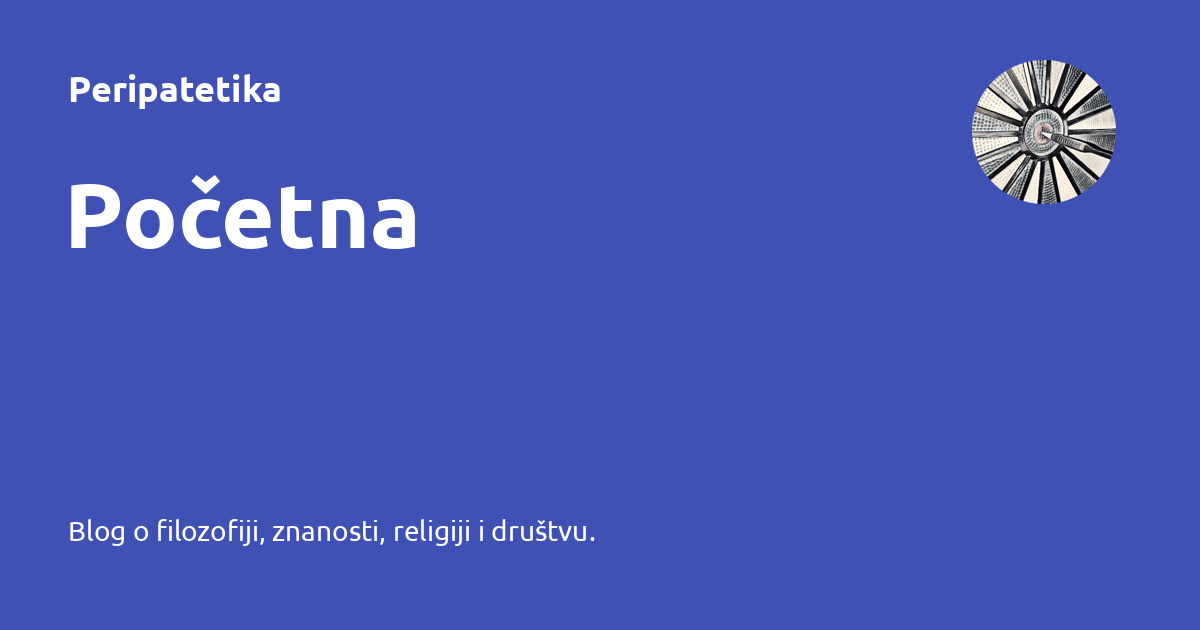
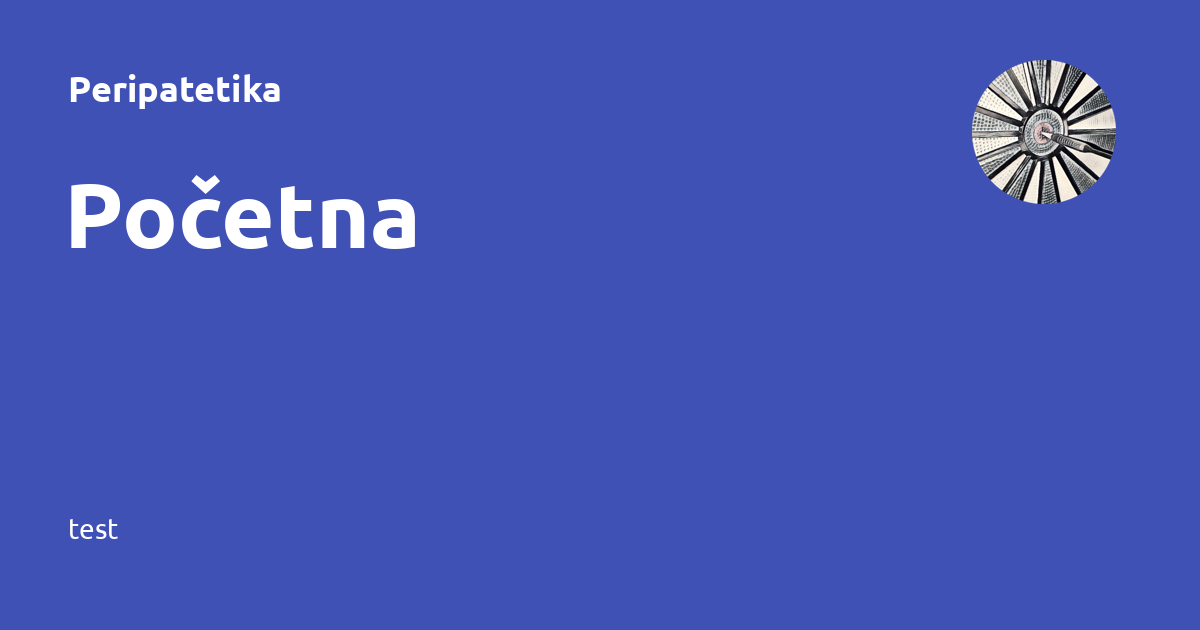
Deployed bcdc57d with MkDocs version: 1.6.1

Changed region(s): [[0.0617, 0.8143, 0.4933, 0.8746]]

diff --git a/index.html b/index.html
@@ -6,7 +6,7 @@
       <meta charset="utf-8">
       <meta name="viewport" content="width=device-width,initial-scale=1">
       
-        <meta name="description" content="Blog o filozofiji, znanosti, religiji i društvu.">
+        <meta name="description" content="test">
       
       
       
@@ -61,7 +61,7 @@
       
         <meta  property="og:title"  content="Peripatetika" >
       
-        <meta  property="og:description"  content="Blog o filozofiji, znanosti, religiji i društvu." >
+        <meta  property="og:description"  content="test" >
       
         <meta  property="og:image"  content="https://peripatetika.com/assets/images/social/index.png" >
       
@@ -77,7 +77,7 @@
       
         <meta  name="twitter:title"  content="Peripatetika" >
       
-        <meta  name="twitter:description"  content="Blog o filozofiji, znanosti, religiji i društvu." >
+        <meta  name="twitter:description"  content="test" >
       
         <meta  name="twitter:image"  content="https://peripatetika.com/assets/images/social/index.png" >
       
